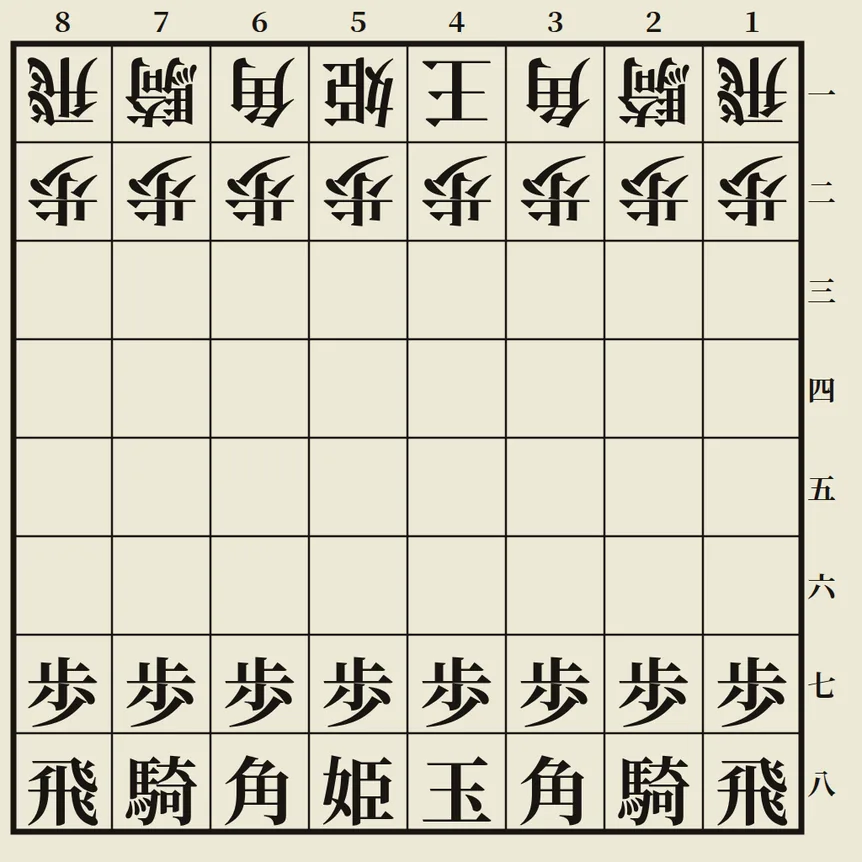
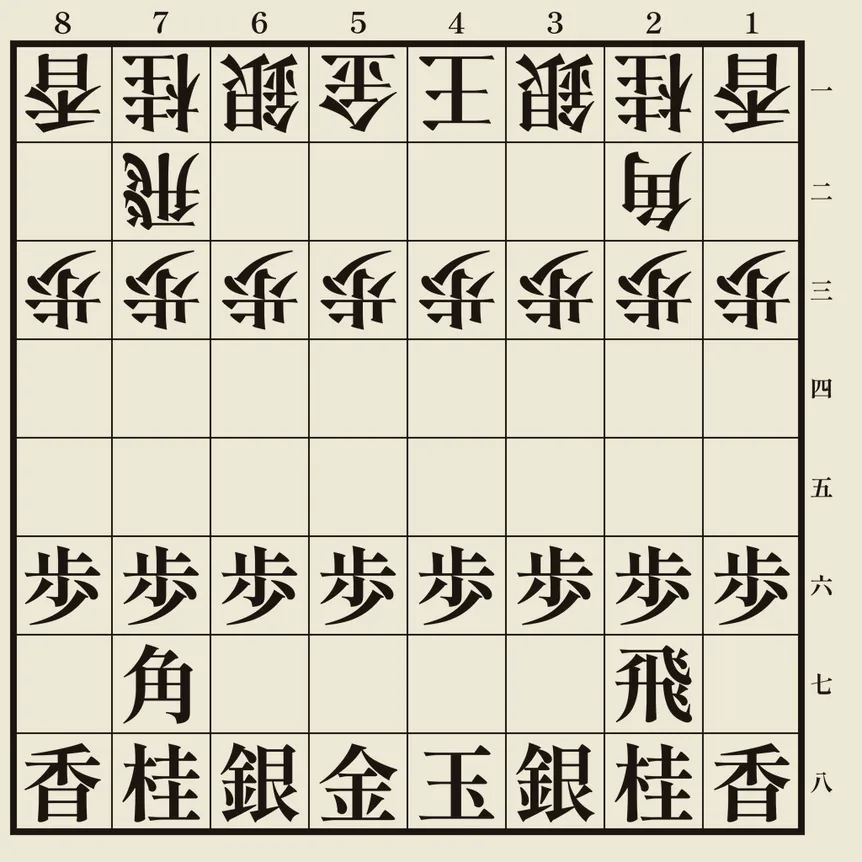
feat(game): the ōgi of the gold general and the free gold

diff --git a/jeu/index.html b/jeu/index.html
@@ -8,7 +8,7 @@
     <meta http-equiv="Content-Security-Policy" content="default-src 'self'; style-src 'self' 'unsafe-inline'">
 
     <meta name="viewport" content="width=device-width,initial-scale=1">
-    <meta name="description" content="Le ōgi est une variante japonaise du shōgi sur un plateau 8x8. Ce jeu se distingue par sa pièce unique, la Princesse, et ses règles de parachutage spécifiques.">
+    <meta name="description" content="Le ōgi est une variante japonaise du shōgi sur un plateau 8x8. Son unique Général d'or, aux côtés du Roi, se promeut en Or libre, une pièce marquée 姫 — la princesse.">
     <meta name="keywords" content="ōgi, shōgi, jeu japonais, princesse, stratégie, plateau, échecs, Komayō, variante, règles">
     <meta name="robots" content="index,follow">
     <meta name="author" content="Cyril Veltin">
@@ -22,7 +22,7 @@
     <meta property="og:site_name" content="Komayō">
     <meta property="og:locale" content="fr_FR">
     <meta property="og:title" content="Le Jeu de la Princesse du Kansai">
-    <meta property="og:description" content="Le ōgi est une variante japonaise du shōgi sur un plateau 8x8. Ce jeu se distingue par sa pièce unique, la Princesse, et ses règles de parachutage spécifiques.">
+    <meta property="og:description" content="Le ōgi est une variante japonaise du shōgi sur un plateau 8x8. Son unique Général d'or, aux côtés du Roi, se promeut en Or libre, une pièce marquée 姫 — la princesse.">
     <meta property="og:type" content="article">
     <meta property="og:url" content="https://fr.komayo.page/jeu/">
     <meta property="og:image" content="https://fr.komayo.page/jeu/img/ogi-game-temple-ghost-geisha-moonlight-japanese-supernatural-art,w_1024.webp">
@@ -31,11 +31,11 @@
     <meta property="og:image:alt" content="Deux hommes jouant au ōgi tandis qu'une femme mystérieuse en kimono observe dans la pénombre">
     <meta property="og:article:author" content="Cyril Veltin">
     <meta property="og:article:published_time" content="2023-01-01">
-    <meta property="og:article:modified_time" content="2026-07-12">
+    <meta property="og:article:modified_time" content="2026-11-07">
 
     <meta name="twitter:card" content="summary_large_image">
     <meta name="twitter:title" content="Le Jeu de la Princesse du Kansai">
-    <meta name="twitter:description" content="Le ōgi est une variante japonaise du shōgi sur un plateau 8x8. Ce jeu se distingue par sa pièce unique, la Princesse, et ses règles de parachutage spécifiques.">
+    <meta name="twitter:description" content="Le ōgi est une variante japonaise du shōgi sur un plateau 8x8. Son unique Général d'or, aux côtés du Roi, se promeut en Or libre, une pièce marquée 姫 — la princesse.">
     <meta name="twitter:image" content="https://fr.komayo.page/jeu/img/ogi-game-temple-ghost-geisha-moonlight-japanese-supernatural-art,w_1024.webp">
 
     <link rel="alternate" hreflang="x-default" href="https://en.komayo.page/game/">
@@ -67,12 +67,12 @@
           "name": "Ōgi",
           "headline": "Le Jeu de la Princesse",
           "alternateName": ["Ōgi", "王棋", "Hime Asobi", "姫遊び", "Jeu de la Princesse"],
-          "description": "Le ōgi est une variante japonaise du shōgi sur un plateau 8x8. Ce jeu se distingue par sa pièce unique, la Princesse, et ses règles de parachutage spécifiques.",
-          "abstract": "Une variante stratégique du shōgi se jouant sur un plateau 8x8, introduisant une nouvelle pièce appelée la Princesse et modifiant certaines règles de parachutage.",
+          "description": "Le ōgi est une variante japonaise du shōgi sur un plateau 8x8. Son unique Général d'or, aux côtés du Roi, se promeut en Or libre, une pièce marquée 姫 — la princesse.",
+          "abstract": "Une variante stratégique du shōgi se jouant sur un plateau 8x8 avec l'armée du shōgi, dont l'unique Général d'or se promeut en Or libre (姫).",
           "image": "https://fr.komayo.page/jeu/img/ogi-game-temple-ghost-geisha-moonlight-japanese-supernatural-art,w_1024.webp",
           "thumbnailUrl": "https://fr.komayo.page/jeu/img/ogi-game-temple-ghost-geisha-moonlight-japanese-supernatural-art,w_200.webp",
           "datePublished": "2023-01-01",
-          "dateModified": "2026-07-12",
+          "dateModified": "2026-11-07",
           "author": {
             "@type": "Person",
             "@id": "https://cyrilvelt.in/#identity",
@@ -107,7 +107,7 @@
             "maxValue": 2
           },
           "gameLocation": ["Plateau de jeu", "En ligne"],
-          "characterAttribute": ["Roi", "Princesse", "Tour", "Fou", "Cavalier", "Fu", "Tokin"],
+          "characterAttribute": ["Roi", "Général d'or", "Or libre", "Tour", "Dragon", "Fou", "Cheval", "Général d'argent", "Cavalier", "Lance", "Fu", "Tokin"],
           "audience": {
             "@type": "Audience",
             "audienceType": "Amateurs de jeux de stratégie"
@@ -170,7 +170,7 @@
             itemprop="hasPart"
             itemscope
             itemtype="https://schema.org/Book"><cite itemprop="headline">La Genèse de l'Enchanteresse</cite></a>.
-          Cette double appellation reflète la particularité du jeu où la princesse, aux côtés du roi, tient un rôle central dans la stratégie.
+          Cette double appellation reflète la pièce singulière du jeu&nbsp;: le Général d'or, qui se tient aux côtés du Roi et qui, une fois promu, révèle le caractère 姫 — la princesse.
         </p>
 
         <h2>Position Initiale</h2>
@@ -188,7 +188,7 @@
               img/traditional-ogi-shogi-variant-starting-position-japanese-chess-diagram,w_862.webp 862w,
               img/traditional-ogi-shogi-variant-starting-position-japanese-chess-diagram,w_1024.webp 1024w"
             src="img/traditional-ogi-shogi-variant-starting-position-japanese-chess-diagram,w_1024.webp"
-            alt="Position initiale d'un plateau de ōgi, variante du shōgi sur un échiquier 8x8. Le diagramme en noir et blanc montre, avec leurs caractères kanji, la Tour, le Cavalier, le Fou, la Princesse et le Roi de chaque camp sur leur premier rang, et huit Fu sur leur deuxième rang. Les colonnes sont numérotées de 8 à 1 en haut, les rangées de 一 à 八 sur le côté droit."
+            alt="Position initiale d'un plateau de ōgi, variante du shōgi sur un échiquier 8x8. Le diagramme en noir et blanc montre, avec leurs caractères kanji, la Lance, le Cavalier, le Général d'argent, le Général d'or, le Roi, le Général d'argent, le Cavalier et la Lance de chaque camp sur leur premier rang, la Tour et le Fou sur leur deuxième rang, et huit Fu sur leur troisième rang. Les colonnes sont numérotées de 8 à 1 en haut, les rangées de 一 à 八 sur le côté droit."
           >
         </picture>
 
@@ -207,21 +207,14 @@
           <dt>Composition des pièces</dt>
           <dd>
             <ul>
-              <li>Les Généraux d'Or, les Généraux d'Argent et les Lances sont absents.</li>
-              <li>Chaque camp aligne deux Tours et deux Fous, là où le shōgi n'en compte qu'une et un.</li>
-              <li>Le Cavalier saute en <q>L</q> dans les huit directions, comme aux échecs occidentaux.</li>
-              <li>Une nouvelle pièce, la Princesse (姫), est introduite. Elle combine les déplacements du Fou et du Cavalier.</li>
+              <li>Chaque camp n'aligne qu'un seul Général d'or, là où le shōgi en compte deux. Il se tient aux côtés du Roi, sur la même colonne pour les deux joueurs, comme la Dame aux échecs occidentaux.</li>
+              <li>Avec une colonne de moins, chaque camp compte huit Fu au lieu de neuf&nbsp;: 18 pièces en tout, contre 20 au shōgi.</li>
+              <li>La Tour, le Fou, les Généraux d'argent, les Cavaliers et les Lances sont ceux du shōgi.</li>
             </ul>
           </dd>
 
           <dt>Promotion</dt>
-          <dd>Seul le Fu (le pion) possède une forme promue&nbsp;: le Tokin (と), qui hérite du déplacement du Général d'Or disparu. La zone de promotion se réduit au dernier rang, où la promotion est obligatoire et automatique.</dd>
-
-          <dt>Le double-pas</dt>
-          <dd>Un Fu qui n'a jamais bougé peut avancer de deux cases en un seul coup, un emprunt aux échecs occidentaux&#8239;—&#8239;sans prise en passant toutefois, les Fu capturant droit devant.</dd>
-
-          <dt>Le roque</dt>
-          <dd>Le Roi peut roquer avec chacune de ses Tours, exactement comme aux échecs occidentaux&nbsp;: le Roi se déplace de deux cases vers une Tour n’ayant jamais bougé, qui vient se placer sur la case qu’il vient de traverser. Une Tour parachutée depuis la main a quitté sa case d’origine&#8239;—&#8239;elle ne peut jamais roquer.</dd>
+          <dd>Contrairement à celui du shōgi, le Général d'or se promeut&nbsp;: il devient l'Or libre, dont le caractère, 姫, signifie <q>princesse</q>. L'Or libre glisse d'un nombre quelconque de cases comme une Tour, ainsi que le long des deux diagonales avant. Les autres pièces se promeuvent comme au shōgi, dans la même zone de trois rangs.</dd>
 
           <dt>Fins de partie</dt>
           <dd>Le pat et la triple répétition de la même position sont des parties nulles, comme aux échecs&#8239;—&#8239;là où le shōgi fait perdre le joueur bloqué et attend quatre répétitions. La règle des 50 coups s'applique également.</dd>
